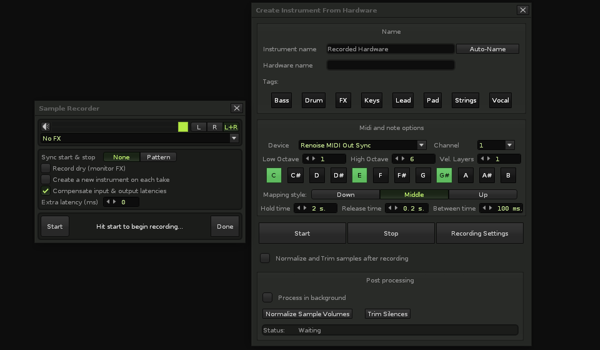
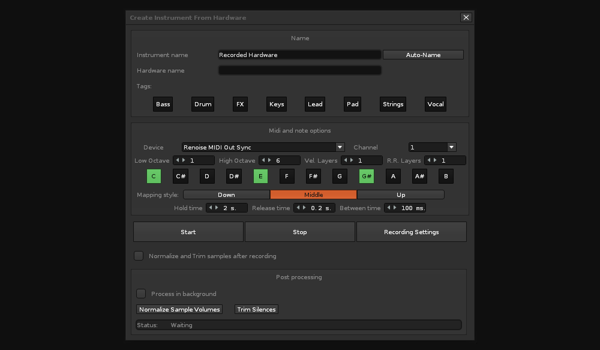
update documentation

diff --git a/README.md b/README.md
@@ -61,9 +61,13 @@ The lowest octave to sample (inclusive). The octave settings correspond to the o
 
 The highest octave to sample (inclusive).
 
-##### Vel. Layers
+##### Vel. Layers (Velocity Layers)
 
 For each sampled note, record this many samples of equally spaced velocities.
+
+##### R.R. Layers (Round Robin layers)
+
+For each mapping produced, record this many samples for it and turn on round robin rotation.
 
 ##### Notes Matrix
 
